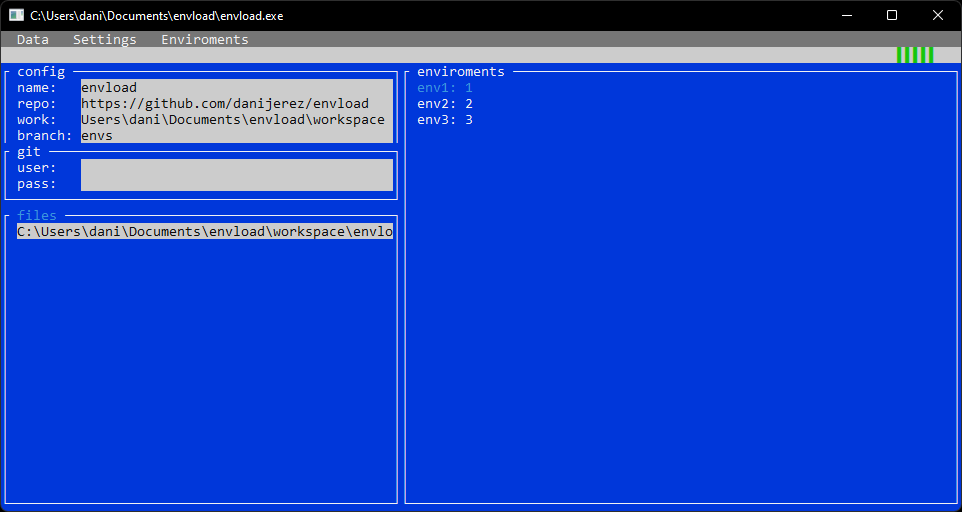
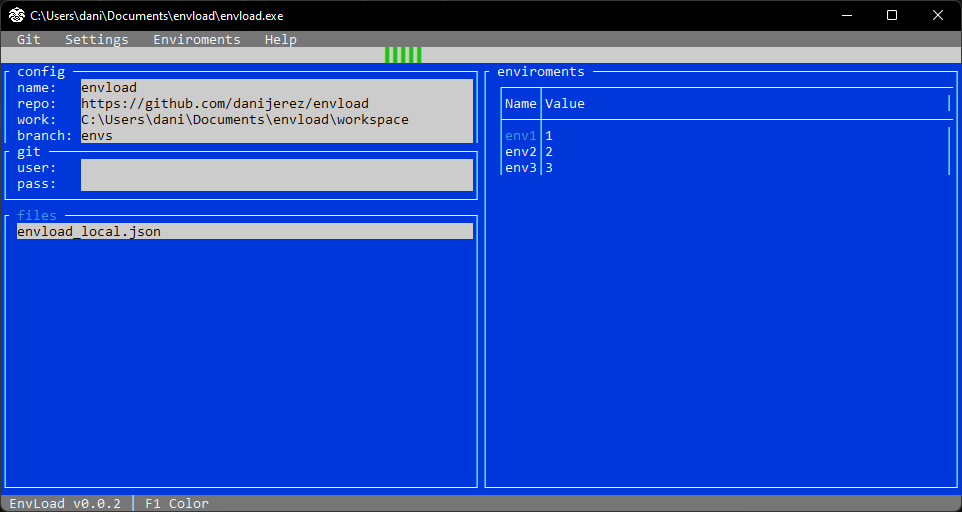
minor fixes. update ico.

diff --git a/src/Utils/UI.cs b/src/Utils/UI.cs
@@ -1,6 +1,7 @@
 using envload.Models;
 using LoadEnv.Models;
 using Serilog;
+using System.Data;
 using System.Text;
 using System.Text.Json;
 using Terminal.Gui;
@@ -41,19 +42,21 @@ namespace LoadEnv.Utils
             //envs
             var containerEnvs = new FrameView("enviroments") { X = Pos.Right(containerConfig), Y = 2, Width = Dim.Fill(), Height = Dim.Fill() - 1 };
 
-            ListView listEnvs = new ListView { X = 1, Y = 0, Width = Dim.Fill(), Height = Dim.Fill() };
-            var listFiles = ListFiles(listEnvs, pathFiles);
+            TableView tableEnvs = new() { X = 1, Y = 0, Width = Dim.Fill(), Height = Dim.Fill() };
+            var listFiles = ListFiles(tableEnvs, pathFiles);
+
+
             containerFiles.Add(listFiles);
-            containerEnvs.Add(listEnvs);
+            containerEnvs.Add(tableEnvs);
 
             container.Add(containerConfig, containerGit, containerFiles, containerEnvs, MenuTop(loginValue, passValue, pathValue, urlValue, proyectValue, branchValue, listFiles, s));
 
             return container;
         }
 
-        public static ListView ListFiles(ListView listEnvs, string pathFiles)
+        public static ListView ListFiles(TableView tableEnvs, string pathFiles)
         {
-            ListView listFiles = new ListView()
+            ListView listFiles = new()
             {
                 X = 1,
                 Y = 0,
@@ -77,27 +80,41 @@ namespace LoadEnv.Utils
                 var path = selected.Value.ToString();
                 if (path != null)
                 {
-                    using (StreamReader r = new StreamReader(pathFiles + @"\" + path))
+                    using StreamReader r = new(pathFiles + @"\" + path);
+                    try
                     {
-                        try
-                        {
-                            EnvironmentDto? source = JsonSerializer.Deserialize<EnvironmentDto>(r.ReadToEnd());
+                        EnvironmentDto? source = JsonSerializer.Deserialize<EnvironmentDto>(r.ReadToEnd());
 
-                            if (source != null && source.values != null)
-                            {
-                                List<string> values = new List<string>();
-                                for (int i = 0; i < source.values.Count(); i++)
-                                {
-                                    values.Add(string.Format("{0}: {1}", source.values[i].name, source.values[i].value));
-                                }
-                                listEnvs.SetSource(values);
-                            }
-                        }
-                        catch (Exception e)
+                        if (source != null && source.values != null)
                         {
-                            Log.Debug(e.Message);
-                            MessageBox.ErrorQuery(70, 8, "Error", e.Message, "ok");
+                            List<string> values = new();
+
+
+                            var dt = new DataTable();
+                            dt.Columns.Add("Name");
+                            dt.Columns.Add("Value");
+
+                            source.values
+                            .DistinctBy(x => x.name)
+                            .ToList()
+                            .ForEach(x =>
+                            {
+                                var newRow = dt.NewRow();
+                                newRow[0] = x.name;
+                                newRow[1] = x.value;
+                                dt.Rows.Add(newRow);
+                            });
+
+                            tableEnvs.Table = dt;
+                            tableEnvs.EnsureValidScrollOffsets();
+                            tableEnvs.Redraw(tableEnvs.Bounds);
+
                         }
+                    }
+                    catch (Exception e)
+                    {
+                        Log.Debug(e.Message);
+                        MessageBox.ErrorQuery(70, 8, "Error", e.Message, "ok");
                     }
                 }
             };
@@ -180,7 +197,7 @@ namespace LoadEnv.Utils
         private static StringBuilder About()
         {
 
-            StringBuilder aboutMessage = new StringBuilder();
+            StringBuilder aboutMessage = new();
             aboutMessage.AppendLine(@"");
             aboutMessage.AppendLine(@"  ____|                    |                           |");
             aboutMessage.AppendLine(@"  __|     __ \   \ \   /   |        _ \     _` |    _` |");

diff --git a/src/Utils/FileUtils.cs b/src/Utils/FileUtils.cs
@@ -28,22 +28,24 @@ namespace LoadEnv.Utils
                 {
                     try
                     {
-                        using (StreamReader r = new StreamReader(pathFiles + @"\" + path))
+                        using StreamReader r = new(pathFiles + @"\" + path);
+
+                        EnvironmentDto? source = JsonSerializer.Deserialize<EnvironmentDto>(r.ReadToEnd());
+                        if (source != null && source.values != null)
                         {
 
-                            EnvironmentDto? source = JsonSerializer.Deserialize<EnvironmentDto>(r.ReadToEnd());
-                            if (source != null && source.values != null)
+                            source.values
+                            .DistinctBy(x => x.name)
+                            .ToList()
+                            .ForEach(x =>
                             {
-                                for (var i = 0; i < source.values.Count(); i++)
-                                {
-                                    var name = source.values[i].name;
-                                    if (name != null)
-                                        Environment.SetEnvironmentVariable(name, !clear ? source.values[i].value : null, EnvironmentVariableTarget.Machine);
-                                }
-                                int result = MessageBox.Query(200, source.values.Count() + 6, "Info", $"Environment variables {text} in system:\n" +
-                                    $"{string.Concat(source.values.Select((a) => string.Format("\n{0}: {1}", a.name, a.value)))}", "ok");
+                                if (x.name != null)
+                                    Environment.SetEnvironmentVariable(x.name, !clear ? x.value : null, EnvironmentVariableTarget.Machine);
+                            });
 
-                            }
+                            int result = MessageBox.Query(200, source.values.DistinctBy(x => x.name).Count() + 6, "Info", $"Environment variables {text} in system:\n" +
+                                $"{string.Concat(source.values.DistinctBy(x => x.name).Select((a) => string.Format("\n{0}: {1}", a.name, a.value)))}", "ok");
+
                         }
 
                     }

diff --git a/src/Utils/GitUtil.cs b/src/Utils/GitUtil.cs
@@ -34,7 +34,7 @@ namespace LoadEnv.Utils
             string? proyect = proyectField.Text.ToString();
             string directory = path + @"\" + proyect;
             int response = MessageBox.Query(70, 8, "Info", $"Do you want to clone the repository?\n" +
-                $"the process may take a few seconds and overwrites the directory: {directory}", "yes", "cancel");
+                $"the process may take a few seconds and overwrites the directory: \n {directory}", "yes", "cancel");
 
             if (response.Equals(1))
                 return;
@@ -60,7 +60,7 @@ namespace LoadEnv.Utils
                     listFiles.SetSource(transform);
                 }
 
-                var message = $"Repository in branch '{branch}' cloned in '{result}'";
+                var message = $"Repository in branch '{branch}' cloned in: \n'{result}'";
                 Log.Information(message);
                 MessageBox.Query(70, 8, "Info", message, "ok");
 

diff --git a/src/Program.cs b/src/Program.cs
@@ -18,11 +18,11 @@ var exampleRepoUrl = @"https://github.com/danijerez/envload";
 var pathFileSettings = pathSettings + @"\" + nameSettings;
 
 Log.Logger = new LoggerConfiguration()
-         .MinimumLevel.Information()
-         .WriteTo.File(directory + @"\log\envload_.txt", rollingInterval: RollingInterval.Day)
+         .MinimumLevel.Debug()
+         .WriteTo.File(directory + @"\log\envload_.txt")
          .CreateLogger();
 
-Settings s = new Settings
+Settings s = new()
 {
     Url = exampleRepoUrl,
     Password = string.Empty,

diff --git a/README.md b/README.md
@@ -1,7 +1,8 @@
 
 
 
-# :scroll: EnvLoad ~ [![Release](https://img.shields.io/badge/alpha-v0.0.1-orange)](https://github.com/danijerez/envload/releases/tag/alpha) [![Release](https://img.shields.io/badge/dotnet-6.0-purple)](https://dotnet.microsoft.com/en-us/download/dotnet/6.0) [![Twitter Follow](https://img.shields.io/twitter/follow/d4nijerez?style=social)](https://twitter.com/d4nijerez) ![GitHub Followers](https://img.shields.io/github/followers/danijerez?style=social) 
+
+# <img src="img/perezoso.png" height = "25"> EnvLoad ~ [![Release](https://img.shields.io/badge/alpha-v0.0.2-orange)](https://github.com/danijerez/envload/releases/tag/alpha) [![Release](https://img.shields.io/badge/dotnet-6.0-purple)](https://dotnet.microsoft.com/en-us/download/dotnet/6.0) [![Twitter Follow](https://img.shields.io/twitter/follow/d4nijerez?style=social)](https://twitter.com/d4nijerez) ![GitHub Followers](https://img.shields.io/github/followers/danijerez?style=social) 
 
 <b>EnvLoad</b> is a little portable program to loads environment variables into the operating system.
 Environment variables are stored in repositories (public or private) in json files classified by project and with the following structure.
